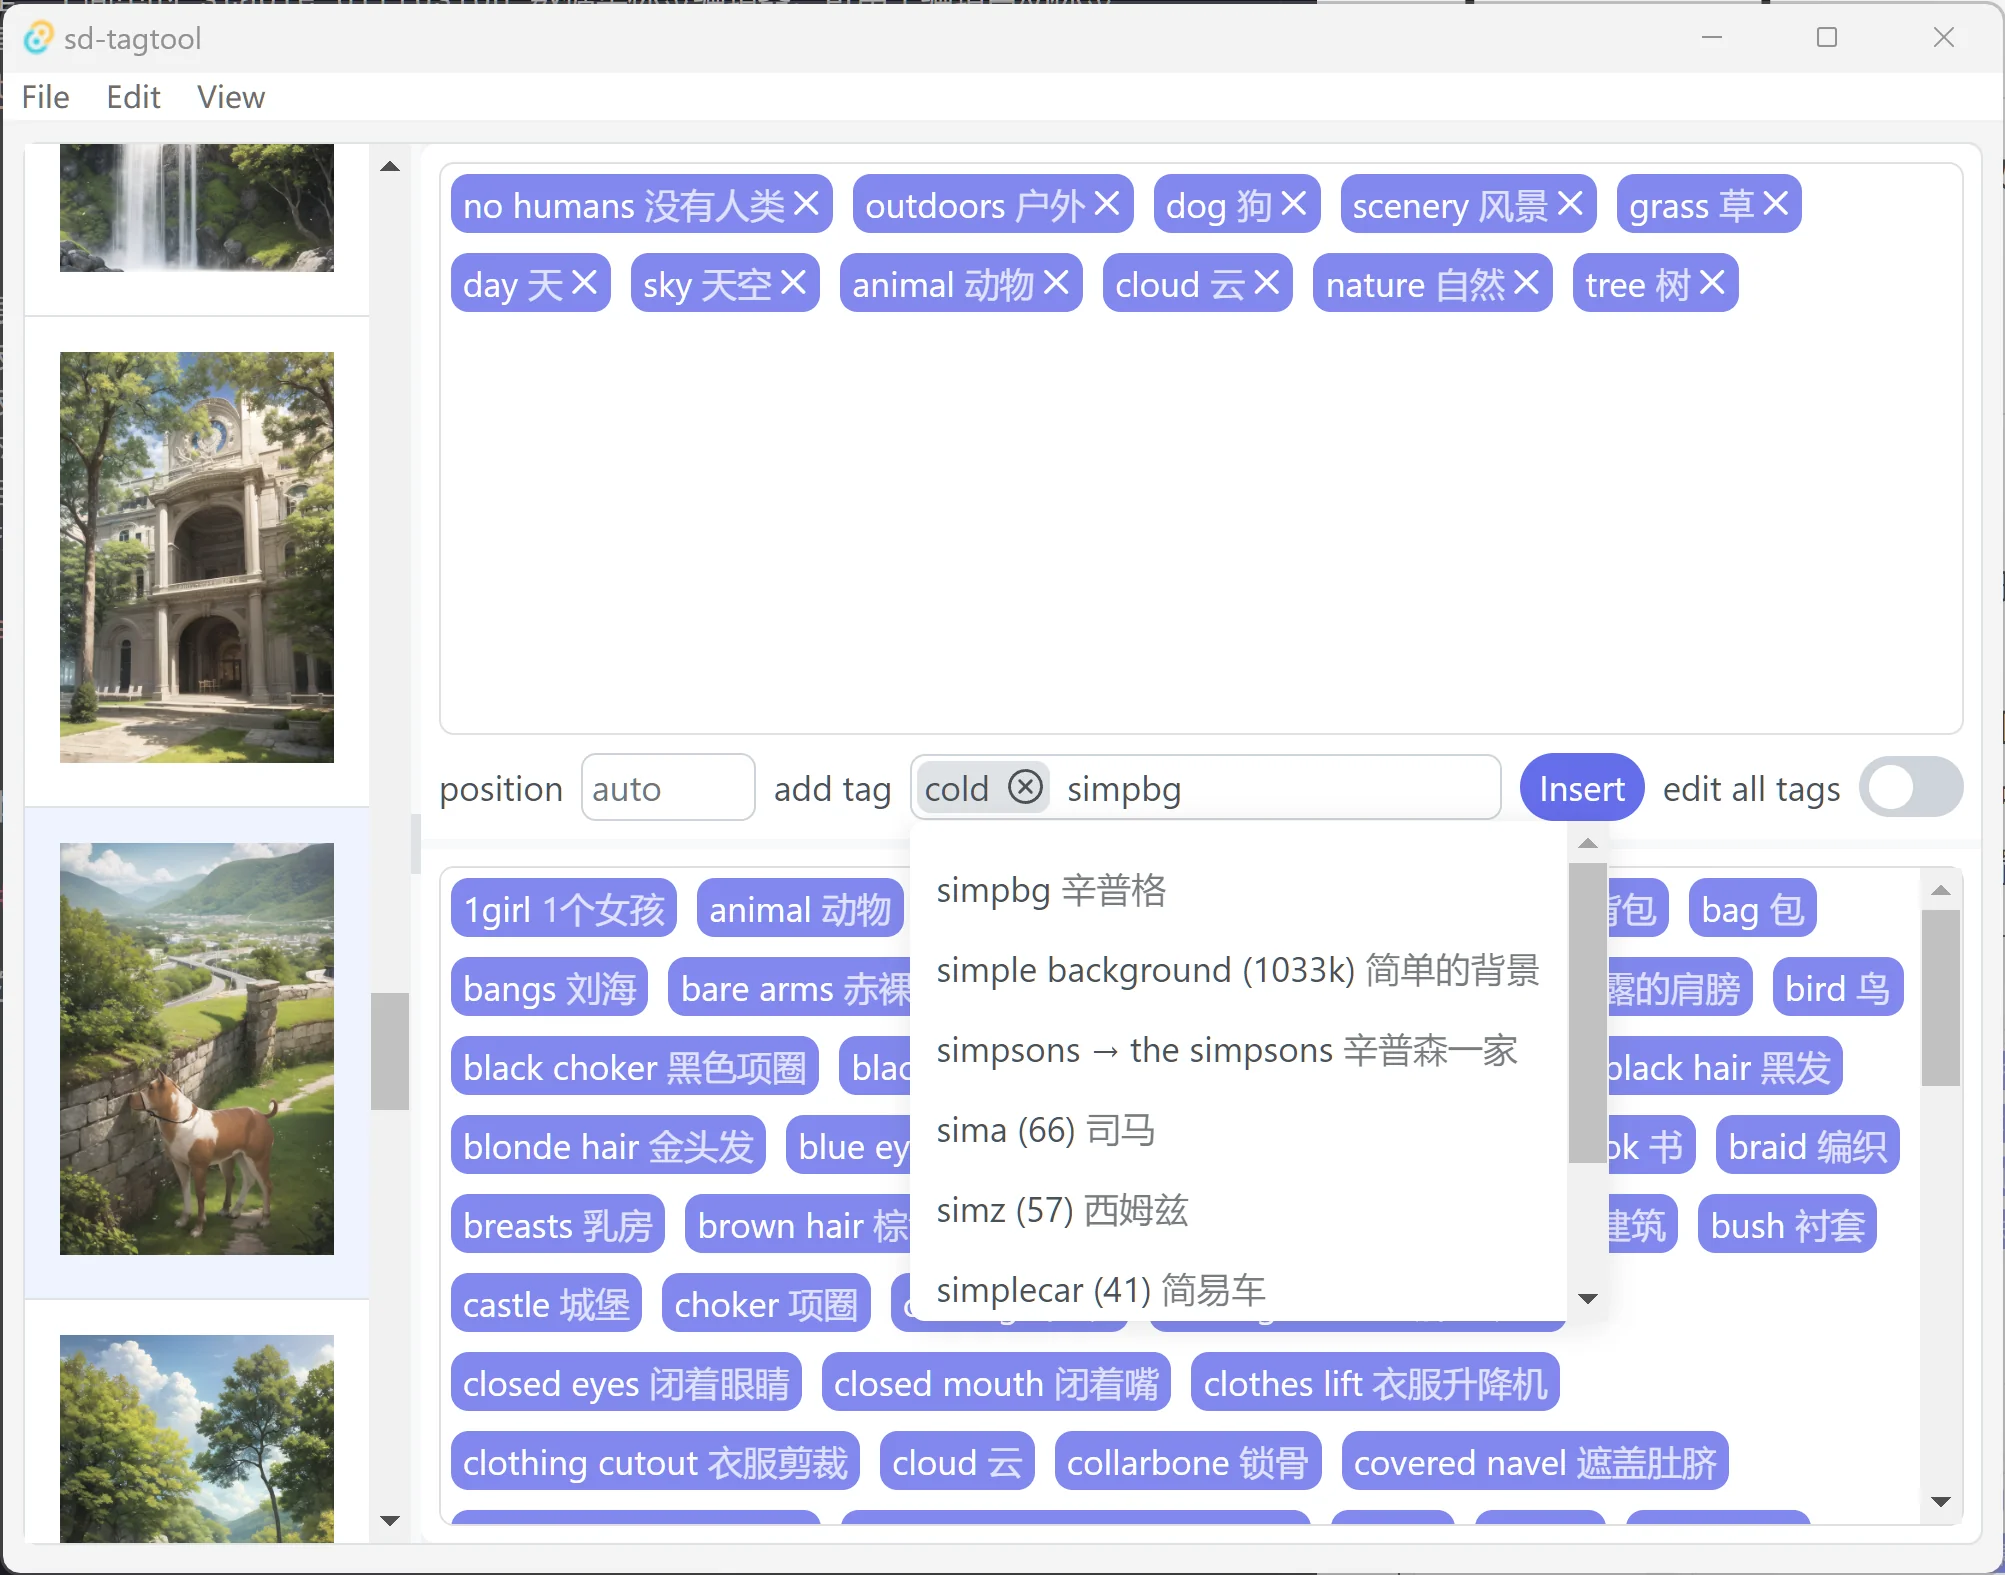
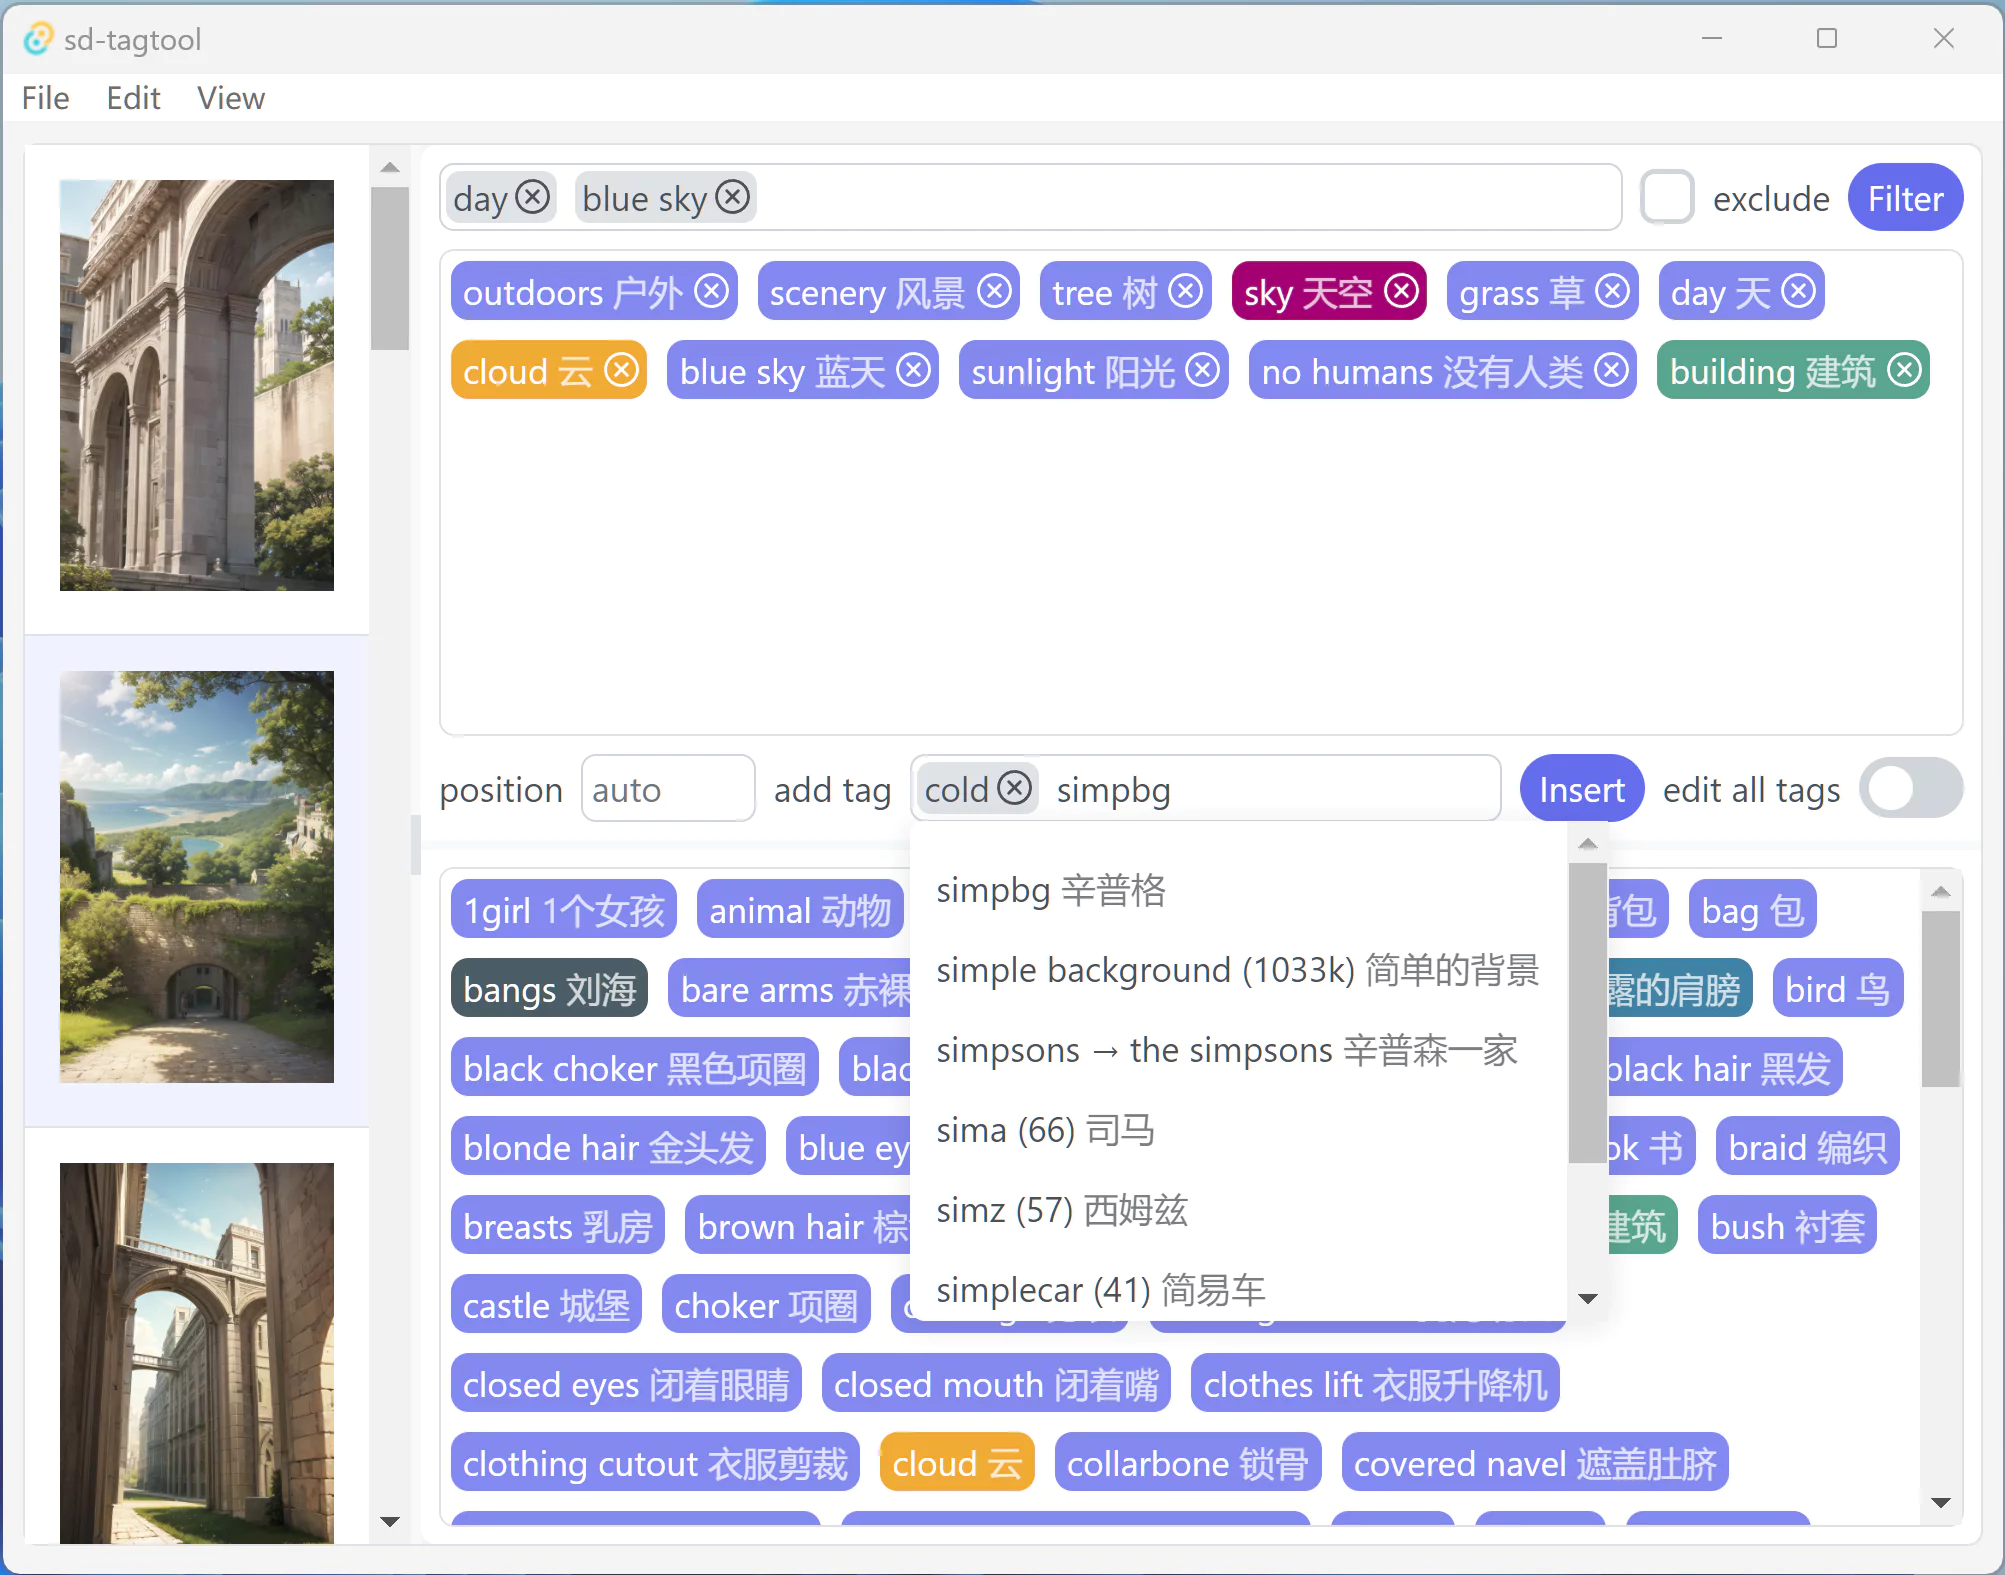
update README.md and screenshot.webp

diff --git a/README.md b/README.md
@@ -12,6 +12,7 @@ This is a simple tag editor for stable diffusion datasets. It can be used to edi
 - Support drag and drop for tags
 - Tags can be inserted/deleted in batches, and the insertion position can be specified
 - Datasets can be filtered by tags
+- Customized tag highlighting
 - Automatic translation (translation to Chinese is now hard-coded, and may require magic to surf the Internet)
 - Quick response
 
@@ -47,6 +48,18 @@ Double-clicking a tag directly in the list of all labels will also insert it int
 Click *Undo* and *Redo* in the *Edit* menu to undo and redo, and you can also use the shortcut keys to do it.
 
 There is no step limit for undo and redo, but there is currently no reasonable interactive feedback (this will lead to you may not know what happened). Also, the undo history is cleared after opening a new directory.
+
+### Tags filter
+
+Enter the tags to be filtered in the tags filter input at the top, and then click the *Filter* button to filter the dataset. Two filtering modes can be selected via the *exclude* checkbox:
+- **Include mode**: when the image has all the tags in the filter, it will be displayed in the filtered list;
+- **Exclude mode**: Images that do not have all the tags in the filter will be shown in the filtered list.
+
+After editing the dataset, you need to click the *Filter* button again to update the filtered dataset. You can enter tags manually, or right-click in the tags list and add specific tags to the filter via the *Add filter* menu.
+
+### Tag highlight
+
+You can choose a highlight color for the tag in *Pick color* of the tag's context menu (click the right mouse button), so that you can find it quickly. When you don't need the tag highlighting anymore, you can clear it by *Clear picked color* in the context menu.
 
 ## Warning
 

diff --git a/README-CN.md b/README-CN.md
@@ -10,6 +10,7 @@
 - 支持拖拽标签
 - 可批量插入/删除标签，可指定插入位置
 - 可通过标签过滤数据集
+- 可自定义的标签高亮
 - 自动翻译（现在写死了翻译到中文，并且可能需要魔法上网）
 - 反应很快
 
@@ -44,6 +45,18 @@
 点击 *Edit* 菜单种的 *Undo* 和 *Redo* 可以进行撤销和重做，还可以使用对应的快捷键来操作。
 
 撤销和重做都没有步数限制，但是目前没有比较合理的交互反馈（这会导致你可能不知道发生了什么操作）。另外，打开新的目录之后会清除撤销历史记录。
+
+### 标签过滤
+
+在顶部的标签过滤栏中填写需要过滤的标签，然后点击 *Filter* 按钮即可过滤数据集。通过 *exclude* 复选框可以选择两种过滤模式：
+- **包含模式**：图片具有过滤器中的所有标签时会在过滤后的列表中展示；
+- **排除模式**：图片不具有过滤器中的所有标签时会在过滤后的列表中展示。
+
+当你编辑了数据集之后，需要重新点击 *Filter* 按钮来更新过滤后的数据集。你可以手动输入标签，也可以在标签列表中点击鼠标右键并通过 *Add filter* 菜单将指定标签添加到过滤器中。
+
+### 标签高亮
+
+你可以在标签的的上下文菜单（点击鼠标右键）的 *Pick color* 为标签选择一个醒目的颜色，这样就可以快速找到它。当你不需要标签高亮时可以通过上下文菜单的 *Clear picked color* 来清除。
 
 ### 翻译
 
